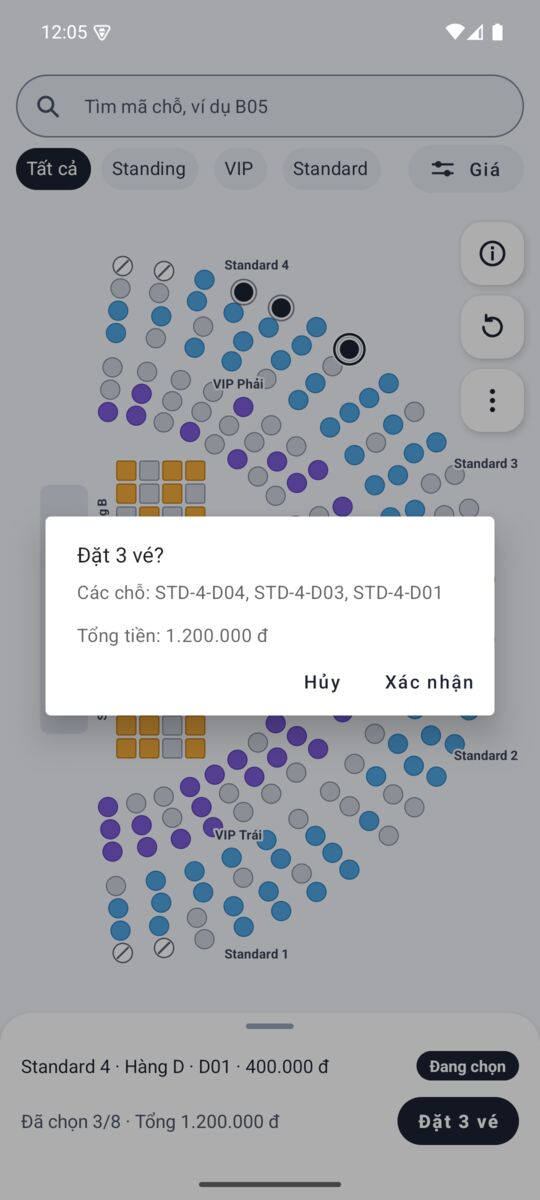
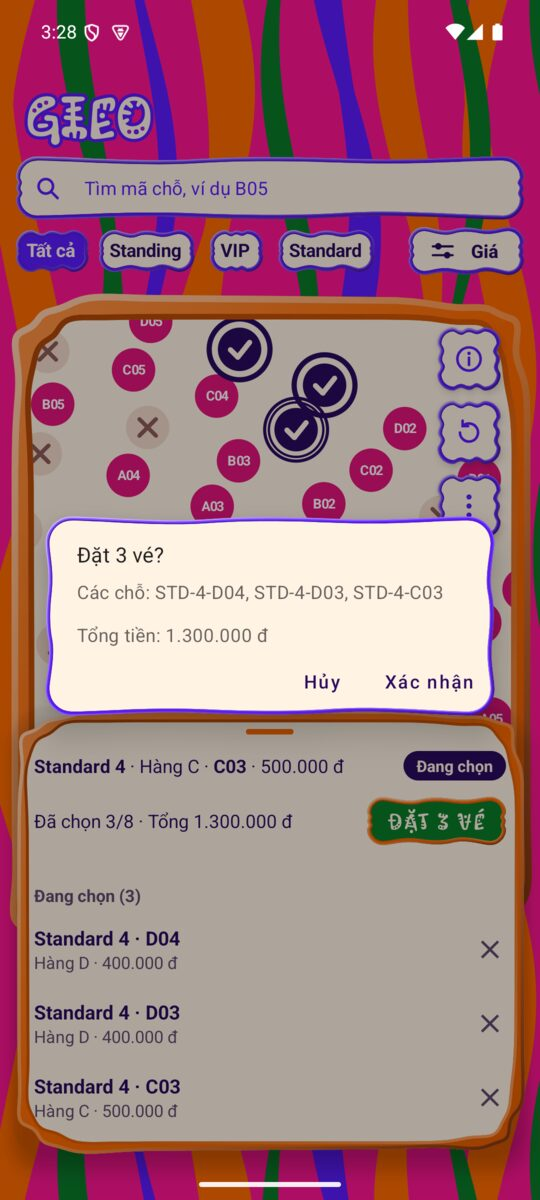
docs(readme): refresh interface screenshots and review notes

diff --git a/README.md b/README.md
@@ -40,7 +40,7 @@ Mỗi chỗ có một trong năm trạng thái hiển thị: **Còn trống**, *
 
 ### Ảnh chụp màn hình
 
-Chụp trên emulator Pixel 6 (Android 15).
+Chụp trên emulator Pixel 6 (Android 15) từ bản thử nghiệm giao diện “Poster lỏng” với viền sticker đang được chỉnh.
 
 | Dọc, mặc định | Dọc, đã zoom, bảng chi tiết mở rộng | Hộp thoại đặt vé |
 |:---:|:---:|:---:|
@@ -449,3 +449,13 @@ Dự án có sử dụng **Claude Code** (Anthropic) và **Codex** (OpenAI). Quy
   - Bản đầu đặt vé quá sát mép của mặt nạ tròn. Codex thu nhỏ phần vé để giữ khoảng trống quanh viền.
   - Đã chạy `assembleDebug test` và xác nhận biểu tượng màu hiển thị trên launcher của emulator. Bản đơn sắc và bản kích thước nhỏ được đối chiếu bằng ảnh xem trước.
 - **Sinh viên kiểm tra/điều chỉnh:** Đã yêu cầu thiết kế logo theo concept hiện tại và bổ sung kết quả vào nhật ký. Codex thực hiện các bước kiểm tra trên.
+
+### 2026-11-27 (tiếp): chụp lại ảnh giao diện
+
+- **Agent/model:** Claude Code (Claude Opus 5.5). Build từ code hiện tại (gồm các thay đổi viền sticker chưa commit), cài lên emulator Pixel 6 (Android 15), thao tác bằng `adb input`, `sendevent` (pinch) và `uiautomator dump`.
+- **Nhiệm vụ được giao:** cập nhật ảnh chụp giao diện trong README theo giao diện "Poster lỏng".
+- **Code được sinh/sửa:** không sửa code. Chụp lại 4 ảnh trong `docs/screenshots/` (cùng tên, cùng kích thước; tổng khoảng 394KB do nền nhiều màu) và thêm tên giao diện vào chú thích ảnh.
+- **Lỗi hoặc hạn chế của kết quả AI:**
+  - Ảnh chụp theo code đang sửa dở; nếu các thay đổi viền sticker không được commit thì ảnh sẽ lệch với bản nộp.
+  - Ở ảnh ngang, sticker sơ đồ thấp (kết thúc phía trên bảng chi tiết thu gọn) nên bảng chú thích che gần hết sơ đồ; AI chỉ chụp đúng hiện trạng, không sửa bố cục.
+- **Sinh viên kiểm tra/điều chỉnh:** Đã rà soát và kiểm tra bốn ảnh mới cùng chú thích trong README. Ảnh minh họa đúng các trạng thái đã chọn: sơ đồ mặc định, sơ đồ đã zoom với ba chỗ đang chọn và bảng chi tiết mở rộng, hộp thoại xác nhận đặt ba vé, và bố cục ngang khi bật bộ lọc VIP và bảng chú thích.
